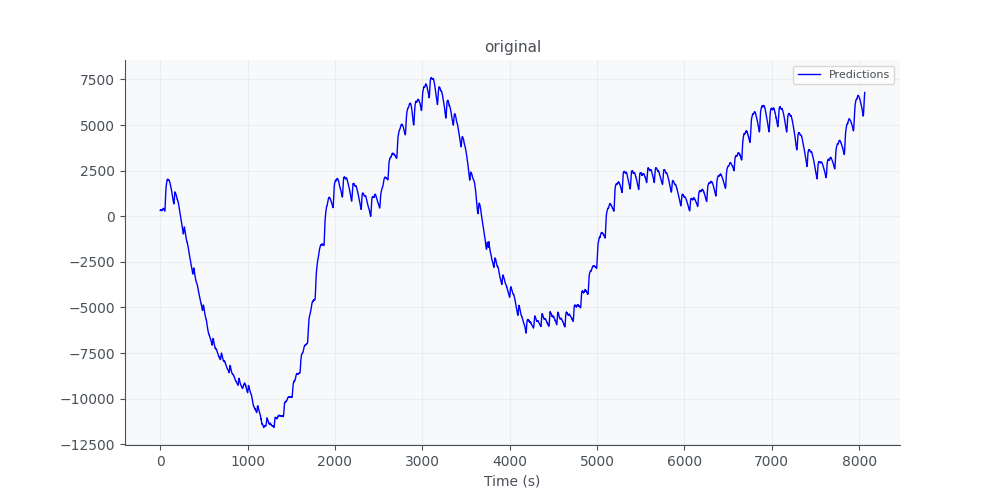
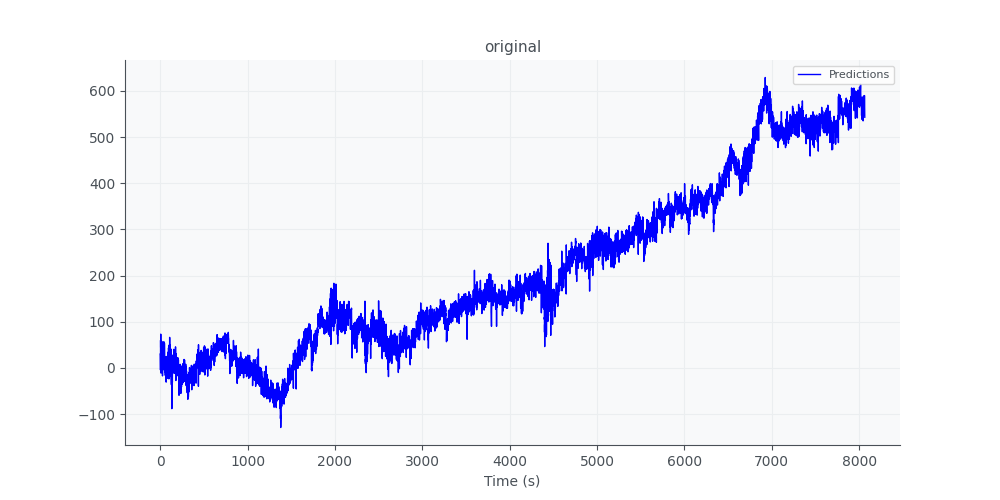
Further PPG preprocessing

diff --git a/dataloaders/DEAP_dataloader.py b/dataloaders/DEAP_dataloader.py
@@ -15,7 +15,7 @@ import torch
 import numpy as np
 import pandas as pd
 from datasets.DEAP_dataset import DEAPDataset
-from utils.ppg_utils import wavelet_transform, stft, signaltonoise
+from utils.ppg_utils import wavelet_transform, stft, signaltonoise, second_derivative
 from sklearn.model_selection import train_test_split, GroupShuffleSplit
 from scipy import signal
 from packages.rppg_toolbox.utils.plot import plot_signal
@@ -28,7 +28,7 @@ warnings.filterwarnings('ignore')
 # Each signal is 63 seconds long
 
 
-PLOT_DEBUG_INDEX = 861
+PLOT_DEBUG_INDEX = 1
 BAD_SIGNAL_INDEX = 10
 
 class DEAPDataLoader(DataLoader):
@@ -50,24 +50,25 @@ class DEAPDataLoader(DataLoader):
         
         self.data["stn"] = self.data["ppg"].apply(lambda x: signaltonoise(x))
         
-        print("plotting good and bad signals...")
-        bad_signal_plot = 0
-        good_signal_plot = 0
-        for i, row in self.data.iterrows():
-            if bad_signal_plot > 5 and good_signal_plot > 5:
-                break
-            ppg, stn = row["ppg"], row["stn"]
-            print(f"stn for i: {i} is: {stn}")
-            if stn >= -0.02 and good_signal_plot <=5:
-                plot_signal(np.array(ppg), f"debug_plots/good_signal_{good_signal_plot}_{i}")
-                good_signal_plot +=1 
-            if stn < -0.02 and bad_signal_plot <= 5:
-                plot_signal(np.array(ppg), f"debug_plots/bad_signal_{bad_signal_plot}_{i}")
-                bad_signal_plot += 1
+        # NOISE_THRESHOLD = 0.002
+        # print("plotting good and bad signals...")
+        # bad_signal_plot = 0
+        # good_signal_plot = 0
+        # for i, row in self.data.iterrows():
+        #     if bad_signal_plot > 5 and good_signal_plot > 5:
+        #         break
+        #     ppg, stn = row["ppg"], row["stn"]
+        #     print(f"stn for i: {i} is: {stn}")
+        #     if stn >= NOISE_THRESHOLD and good_signal_plot <=5:
+        #         plot_signal(np.array(ppg), f"debug_plots/good_signal_{good_signal_plot}_{i}")
+        #         good_signal_plot +=1 
+        #     if stn < NOISE_THRESHOLD and bad_signal_plot <= 5:
+        #         plot_signal(np.array(ppg), f"debug_plots/bad_signal_{bad_signal_plot}_{i}")
+        #         bad_signal_plot += 1
         
-        print(f"Data before filtering bad signals: {len(self.data)}")
-        self.data = self.data.query('stn > -0.02')
-        print(f"Data after filtering bad signals: {len(self.data)}")
+        # print(f"Data before filtering bad signals: {len(self.data)}")
+        # self.data = self.data.query(f'stn > {NOISE_THRESHOLD}')
+        # print(f"Data after filtering bad signals: {len(self.data)}")
 
         print("Performing min-max normalization")
         self.data = self.normalize_data(self.data)
@@ -189,11 +190,13 @@ class DEAPDataLoader(DataLoader):
         
         # alpha = 1000
         alpha = 1
+        a, b = [-1,1]
         new_df = []
         for i, row in df.iterrows():
             ppg, subject, valence = row["ppg"], row["subject"], row["valence"]
-            _min, _max = min_max_mapping[subject]["_min"], min_max_mapping[subject]["_max"] 
-            ppg = (ppg - _min) / (_max - _min) * alpha
+            # _min, _max = min_max_mapping[subject]["_min"], min_max_mapping[subject]["_max"] 
+            _min, _max = min(ppg), max(ppg)
+            ppg = (a + ((ppg - _min)*(b-a)) / (_max - _min)) * alpha
             new_df.append({"ppg": ppg, "valence": valence, "subject": subject})
         return pd.DataFrame(new_df)
 
@@ -227,59 +230,93 @@ class DEAPDataLoader(DataLoader):
         val_df, test_df = train_test_split(temp_df, test_size=0.5, random_state=RANDOM_SEED)
         return train_df, val_df, test_df
 
-        # NOTE: split by subjects
-        df = self.data
+    def slice_ppg_window(self, ppg_signal,peak_index, window_size):
+      """
+      Slices a window from the PPG signal to contain a single pulse with the peak at the center.
 
-        train_ratio = 0.6
-        val_ratio = 0.2
-        test_ratio = 0.2
-        if train_ratio + val_ratio + test_ratio != 1:
-            raise ValueError("Ratios must sum to 1. Please adjust the values.")
+      Args:
+        ppg_signal: A NumPy array representing the filtered PPG signal.
+        window_size: The desired size of the window (number of data points).
 
-        pid_groups = df['participant_id'].tolist()
-        X = df['ppg'].tolist()
-        Y = df['valence'].tolist()
-        sss = GroupShuffleSplit(n_splits=1, test_size=val_ratio + test_ratio, random_state=RANDOM_SEED)
+      Returns:
+        A NumPy array containing the sliced window with the peak at the center.
+      """
+      # Ensure the window size is less than or equal to the signal length
+      window_size = min(window_size, len(ppg_signal))
+      # Calculate the half window size (assuming an even window size for peak centering)
+      half_window_size = window_size // 2
+      # Check if the peak is close enough to the edges to fit the entire window
+      if peak_index < half_window_size or peak_index >= len(ppg_signal) - half_window_size:
+        # If not, center the window as much as possible
+        start_index = max(0, peak_index - half_window_size + 1)
+        end_index = min(len(ppg_signal), peak_index + half_window_size)
+      else:
+        # Center the window perfectly
+        start_index = peak_index - half_window_size
+        end_index = start_index + window_size
+      # Slice the window from the signal
+      sliced_window = ppg_signal[start_index:end_index]
+      return sliced_window 
 
-        # Split the dataframe based on pid groups
-        for train_index, test_index in sss.split(X, Y, pid_groups):  # Splitting based on labels maintains class balance
-            train_df = df.iloc[train_index]
-            remaining = df.iloc[test_index]
+    def slice_ppg_windows(self, ppg_signal, window_size, overlap=0):
+          """
+          Slices the entire PPG signal into windows containing single pulses.
 
-            # Further split remaining data into validation and test sets (optional)
-            sss_inner = GroupShuffleSplit(n_splits=1, test_size=test_ratio / (val_ratio + test_ratio), random_state=RANDOM_SEED)
-            X_remaining, Y_remaining = remaining["ppg"].tolist(), remaining["valence"].tolist()    
-            pid_groups_remaining = remaining['participant_id'].tolist()
-            val_index, test_index = next(sss_inner_.split(X_remaining, Y_remaining, pid_groups_remaining))
-            val_df = remaining.iloc[val_index]
-            test_df = remaining.iloc[test_index]
+          Args:
+            ppg_signal: A NumPy array representing the filtered PPG signal.
+            window_size: The desired size of the window (number of data points).
+            overlap (optional): The number of data points by which consecutive windows overlap.
 
-        train_pids = set(train_df["participant_id"].unique())
-        val_pids = set(val_df["participant_id"].unique())
-        test_pids = set(test_df["participant_id"].unique())
-        
-        # print("train pids ", train_pids)
-        # print("val pids ", val_pids)
-        # print("test pids ",test_pids )
+          Returns:
+            A list of NumPy arrays, where each array represents a window with a single pulse.
+          """
 
-        assert len(train_pids & val_pids) == 0
-        assert len(train_pids & test_pids) == 0
-        assert len(val_pids & test_pids) == 0
-         
-        return train_df, val_df, test_df
+          # Find all potential peak indices
+          potential_peaks = np.diff(np.sign(np.diff(ppg_signal))) > 0  # Identify rising edges
 
+          # Create an empty list to store windows
+          windows = []
+
+          # Iterate through potential peaks
+          for peak_index in potential_peaks.nonzero()[0]:
+            # Call the slice function for each peak
+            sliced_window = self.slice_ppg_window(ppg_signal, peak_index, window_size)
+            windows.append(sliced_window)
+
+          # Handle overlapping windows (optional)
+          if overlap > 0:
+            # Adjust window start indices for overlapping windows
+            for i in range(1, len(windows)):
+              windows[i][0] = max(windows[i][0], windows[i-1][window_size - overlap])
+
+          return windows    
+
+    #TODO: take a single pulse for each window, and align it in the center
     def slice_data(self, df, length=LENGTH, step=STEP) -> pd.DataFrame:
         if length > 3000:
             raise ValueError(f"Length cannot be greater than original length")
         new_df = []
         for row_i, row in df.iterrows():
             ppg, label, subject = row["ppg"], row["valence"], row["subject"]
-            for i in range(0, len(ppg) - length + 1, step):
-                if row_i == PLOT_DEBUG_INDEX and i ==0:
-                    plot_signal(ppg, "before_slice")
-                ppg_segment = ppg[i:i+length]
-                if row_i == PLOT_DEBUG_INDEX and i ==0:
-                    plot_signal(ppg_segment, "after_slice")
+            if row_i == PLOT_DEBUG_INDEX:
+                plot_signal(ppg, "before_slice")
+            ppg_segments = self.slice_ppg_windows(ppg, window_size=length)
+            for i, ppg_segment in enumerate(ppg_segments):
+                if len(ppg_segment) != length:
+                    continue
+
+                #Remove low quality sliced that comes from low quality signal
+                if len((np.diff(np.sign(np.diff(ppg_segment))) > 0).nonzero()[0]) > 3:
+                    # plot_signal(ppg_segment, f"debug_plots/bad_slices/slice_{i}")
+                    continue 
+                
+                # Only keep signals that have the peak on the center
+                if not 30 <= np.argmax(ppg_segment) <= 80:
+                    continue
+
+        
+                # plot_signal(ppg_segment, f"debug_plots/slices/after_slice_{i}_{row_i}")
+
                 new_row = {
                         "ppg": ppg_segment ,
                         "valence": label,

diff --git a/models/EmotionNetDEAP.py b/models/EmotionNetDEAP.py
@@ -71,15 +71,15 @@ class EmotionNet(nn.Module):
             nn.Dropout(p=dropout_p),
         )
 
-        # self.fc = nn.Sequential(
-        #         nn.Linear(660, 512),
-        #         nn.Linear(512, EMOTION_NUM_CLASSES))
+        self.fc = nn.Sequential(
+                nn.Linear(660, 512),
+                nn.Linear(512, EMOTION_NUM_CLASSES))
 
-        self.fc = nn.Linear(512, EMOTION_NUM_CLASSES)
+        # self.fc = nn.Linear(512, EMOTION_NUM_CLASSES)
         # self.fc = nn.Linear(hidden_size, EMOTION_NUM_CLASSES)
     def forward(self, x):
         x = x.unsqueeze(1)
-        CNN_embedding = self.CNN_block(x)
+        CNN_embedding = self.CNN_block_1d(x)
         CNN_embedding = torch.flatten(CNN_embedding, start_dim=1) 
 
         # x_lstm = torch.squeeze(x, 1)

diff --git a/config.py b/config.py
@@ -34,7 +34,7 @@ RESUME_EPOCH = ""
 # Train configurations
 BATCH_SIZE = 128 # Max (for ViT): 256 | Max (for CNN): 64
 N_EPOCHS = 500
-LR = 1e-2
+LR = 1e-3
 REG = 0
 DROPOUT_P = 0
 
@@ -97,10 +97,10 @@ OFFLINE_VIDEO_FILE = os.path.join(VIDEO_DATASET_DIR, "test_video_real.mp4") # Of
 
 # EmotionNet Configurations
 EMOTION_NUM_CLASSES = 3  # Bad mood, neutral, good mood
-LENGTH = 256 #800 seemed to work
-STEP = 256
+LENGTH = 140 #800 seemed to work
+STEP = 140
 
-WT = True #Wheter to perform or not Wavelet Transform on PPG before feeding it to the model
+WT = False #Wheter to perform or not Wavelet Transform on PPG before feeding it to the model
 WAVELET_STEP = 32
 LSTM_HIDDEN = 256
 LSTM_LAYERS = 2

diff --git a/utils/ppg_utils.py b/utils/ppg_utils.py
@@ -76,6 +76,11 @@ def signaltonoise(a, axis=0, ddof=0):
     sd = a.std(axis=axis, ddof=ddof)
     return np.where(sd == 0, 0, m/sd)
 
+def second_derivative(signal):
+    x = np.linspace(0, signal.shape[0], num=signal.shape[0])
+    dfdx = np.gradient(signal, x)
+    d2fdx2 = np.gradient(dfdx, x)
+    return d2fdx2
 
 
 if __name__ == "__main__":
